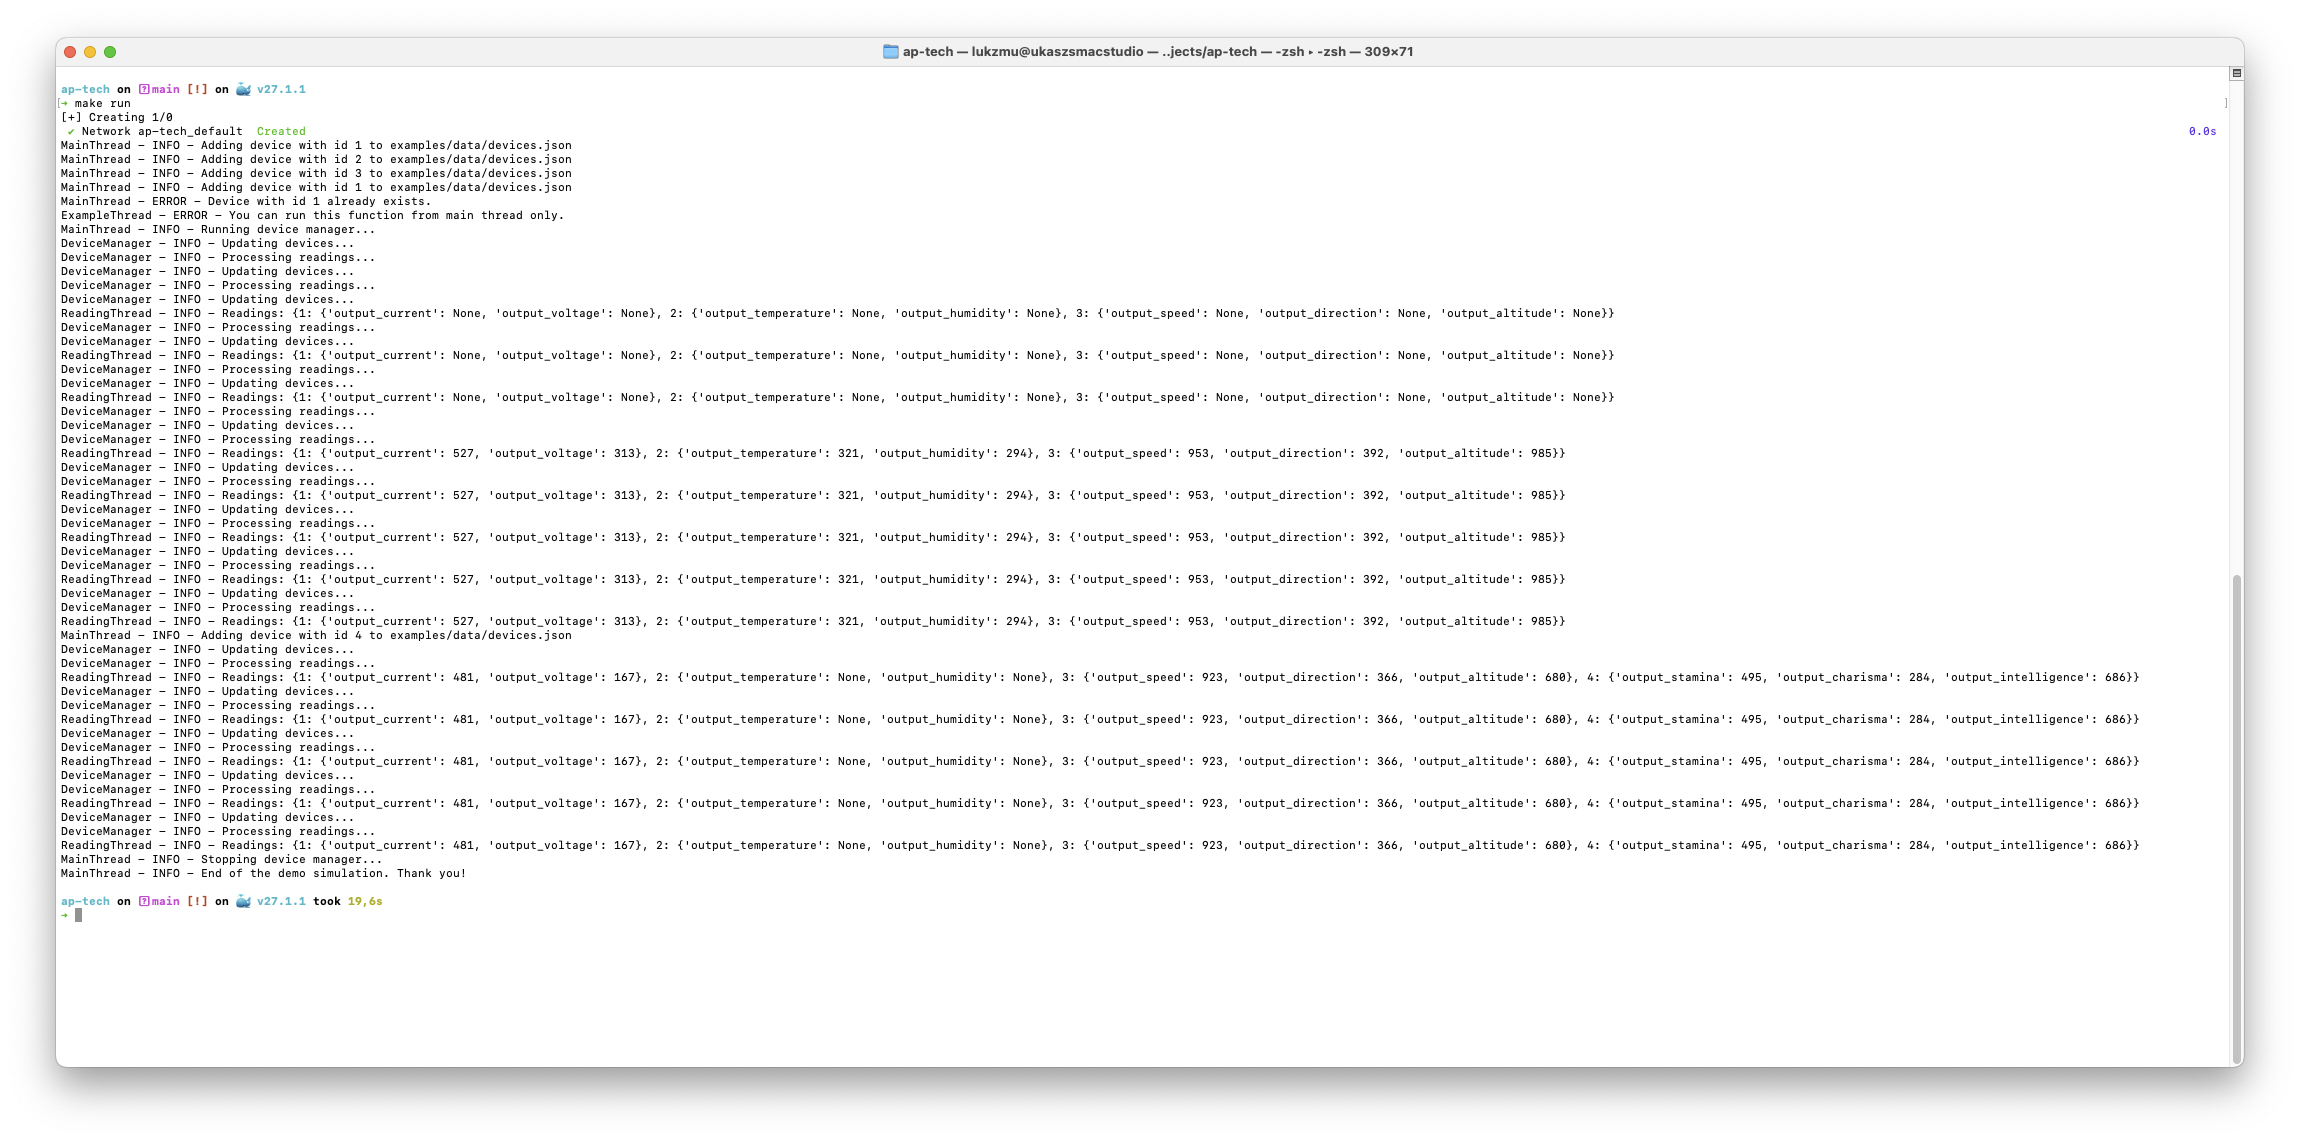
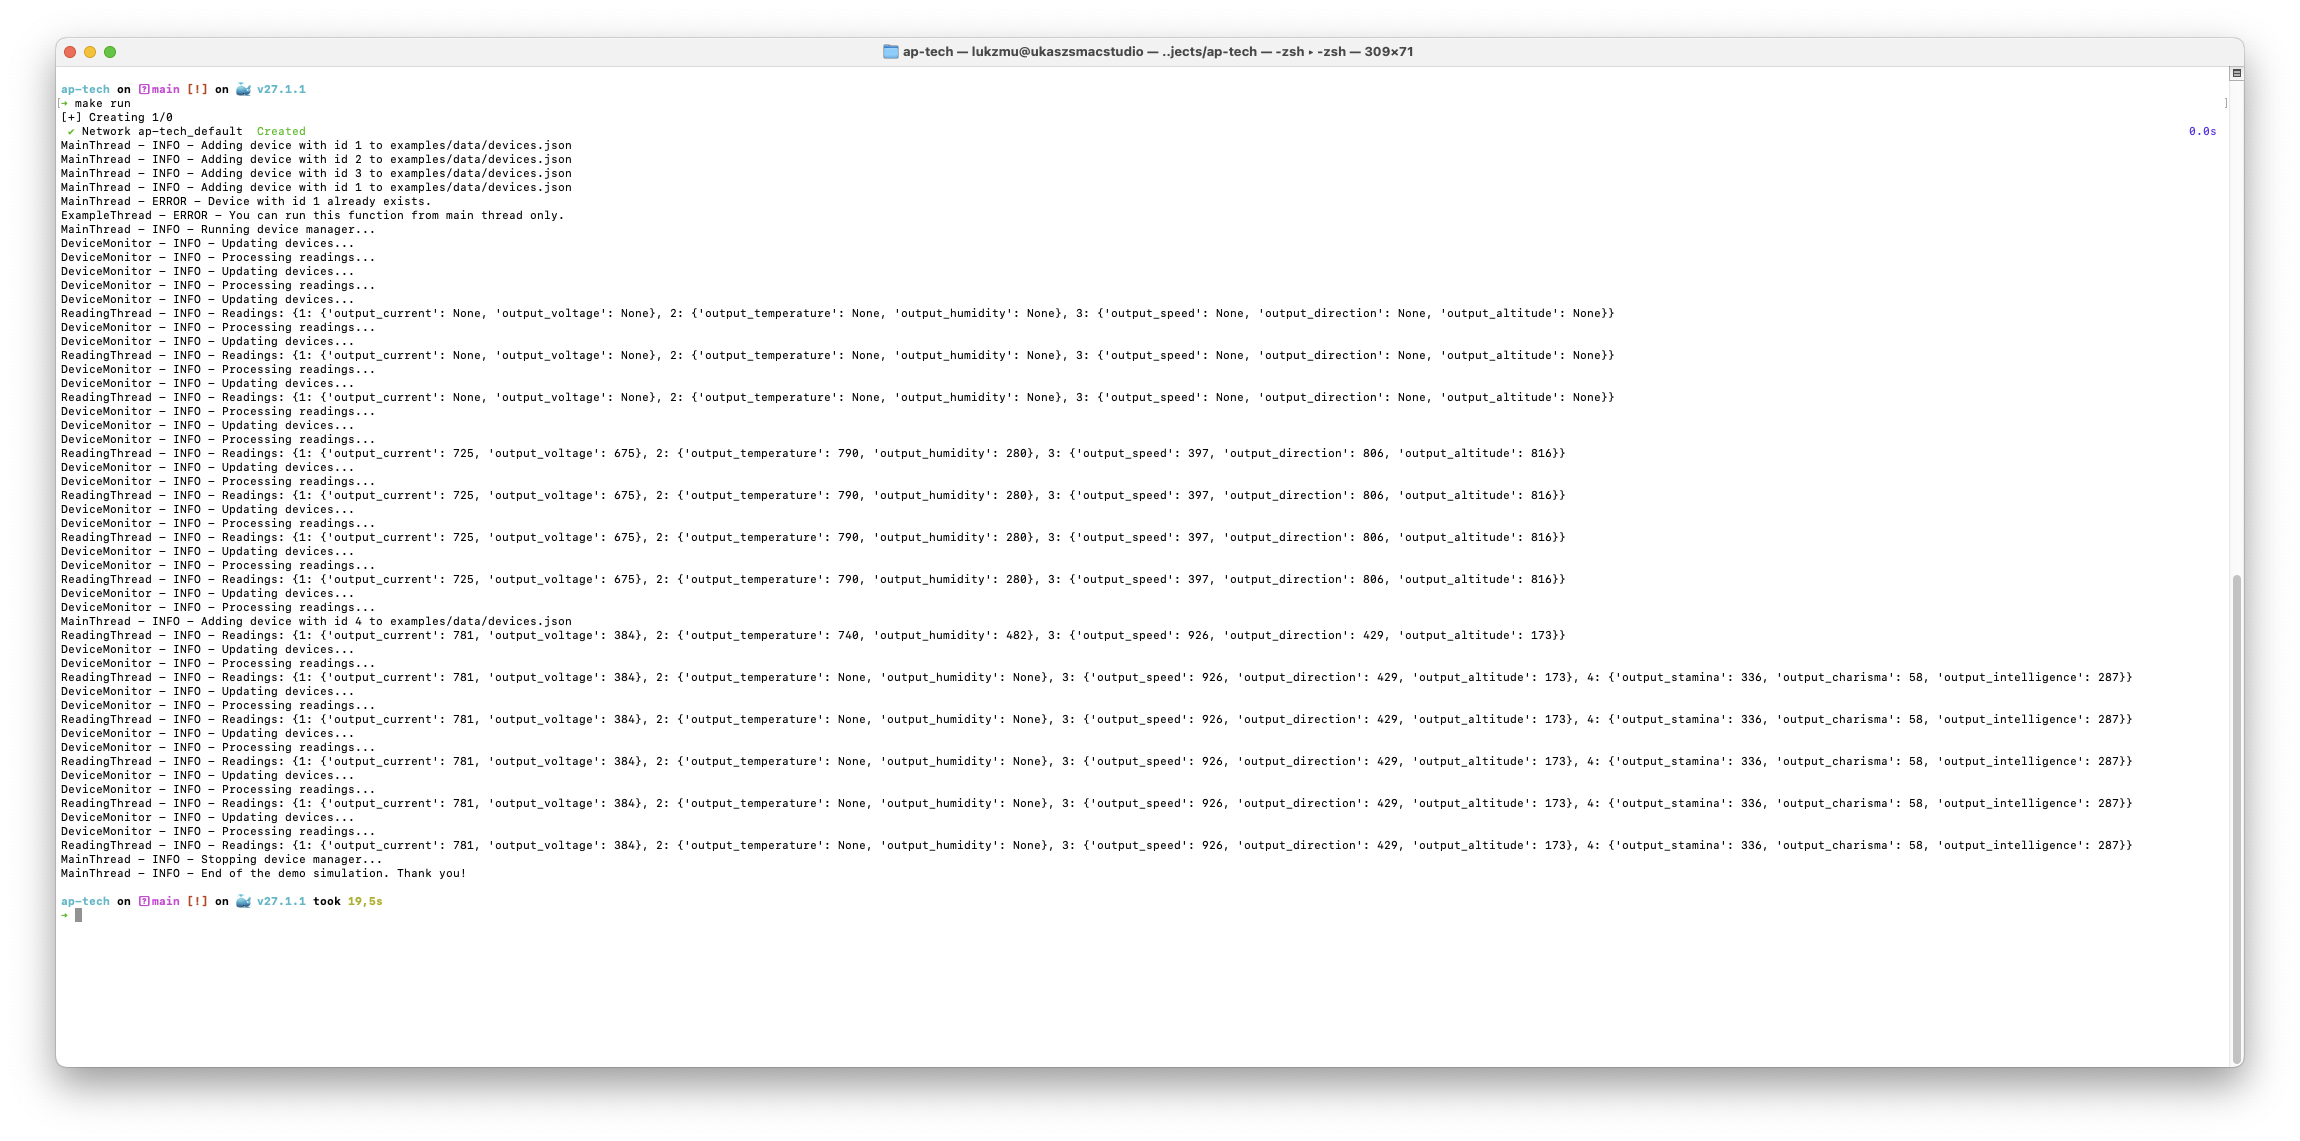
Update project naming

diff --git a/device_monitor/device/managers.py b/device_monitor/device/managers.py
@@ -6,13 +6,13 @@ from typing import Any
 from core.exceptions import DataFileNotFoundError, EmptyDataError, TimeIntervalError
 from core.repositories import DataRepository
 from core.validators import validate_main_thread, validate_time_interval
-from device.exceptions import ManagerAlreadyRunningError, ManagerIsNotRunningError
+from device.exceptions import MonitorAlreadyRunningError, MonitorIsNotRunningError
 from device.mappers import DeviceMapper
 from device.models import Device
 from device.repositories import DeviceDataFileRepository
 
 
-class DeviceManager:
+class DeviceMonitor:
     def __init__(
         self,
         device_repository: DataRepository,
@@ -36,19 +36,19 @@ class DeviceManager:
         validate_main_thread(thread_id=self._main_thread_id)
 
         if self._is_running:
-            raise ManagerAlreadyRunningError
+            raise MonitorAlreadyRunningError
 
         with self._thread_lock:
             logging.info("Running device manager...")
             self._is_running = True
-            self._worker_thread = threading.Thread(target=self._synchronize_data, daemon=True, name="DeviceManager")
+            self._worker_thread = threading.Thread(target=self._synchronize_data, daemon=True, name="DeviceMonitor")
             self._worker_thread.start()
 
     def stop(self) -> None:
         validate_main_thread(thread_id=self._main_thread_id)
 
         if not self._worker_thread or not self._worker_thread.is_alive():
-            raise ManagerIsNotRunningError
+            raise MonitorIsNotRunningError
 
         with self._thread_lock:
             logging.info("Stopping device manager...")

diff --git a/device_monitor/device/exceptions.py b/device_monitor/device/exceptions.py
@@ -3,11 +3,11 @@ class DeviceAlreadyExists(Exception):
         super().__init__(f"Device with id {id} already exists.")
 
 
-class ManagerAlreadyRunningError(Exception):
+class MonitorAlreadyRunningError(Exception):
     def __init__(self) -> None:
-        super().__init__("Manager is already running.")
+        super().__init__("Monitor is already running.")
 
 
-class ManagerIsNotRunningError(Exception):
+class MonitorIsNotRunningError(Exception):
     def __init__(self) -> None:
-        super().__init__("Manager is not running.")
+        super().__init__("Monitor is not running.")

diff --git a/examples/simulation.py b/examples/simulation.py
@@ -5,7 +5,7 @@ import random
 import threading
 import time
 
-from device_monitor import Device, DeviceFileRepository, DeviceManager
+from device_monitor import Device, DeviceFileRepository, DeviceMonitor
 
 DEVICES_FILE_PATH = "examples/data/devices.json"
 DATA_DIRECTORY_PATH = "examples/data"
@@ -51,7 +51,7 @@ except Exception as e:
     logging.error(e)
 
 # Create a new device manager
-device_manager = DeviceManager(
+device_manager = DeviceMonitor(
     device_repository=repository,
     main_thread_id=main_thread_id,
 )

diff --git a/device_monitor/__init__.py b/device_monitor/__init__.py
@@ -1,3 +1,3 @@
-from .device.managers import DeviceManager
+from .device.managers import DeviceMonitor
 from .device.models import Device
 from .device.repositories import DeviceFileRepository
